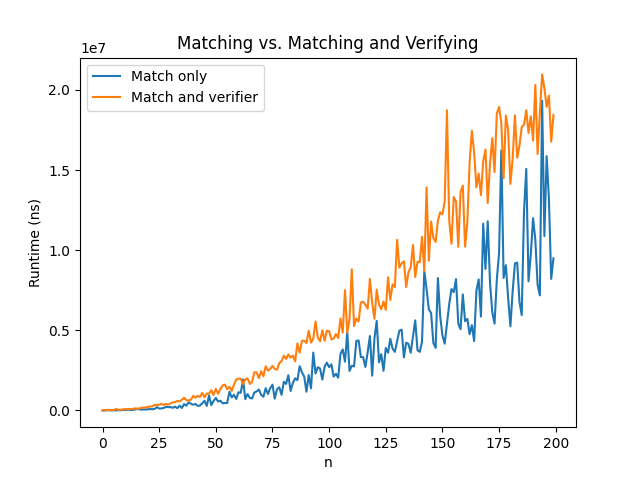
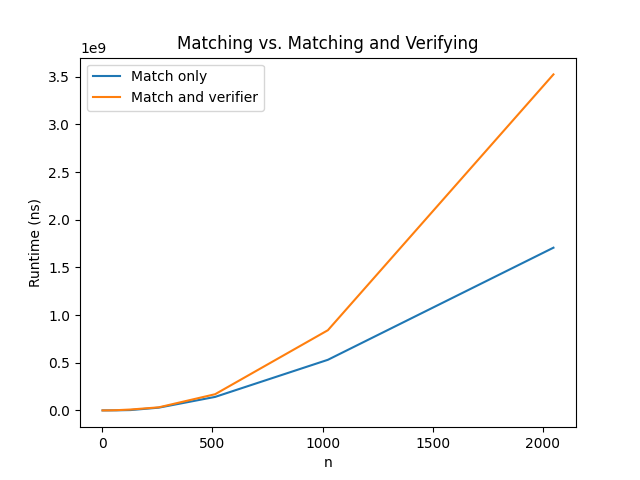
use the correct operator oops

diff --git a/src/scalability.py b/src/scalability.py
@@ -6,11 +6,11 @@ from verifier import verify
 from time import time_ns
 
 def test_time(callback, name):
-    count = 200
+    count = 12
     x_axis = []
     y_axis = []
     for i in range(0, count):
-        n = 2^i
+        n = 2**i
         possible = range(1, n + 1)
         h = [
             random.sample(possible, n) for y in range(0, n)
